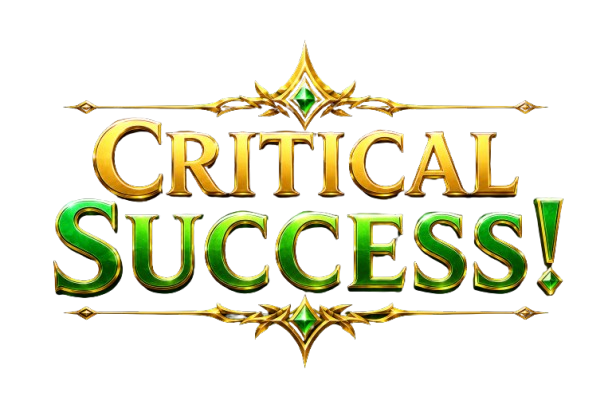
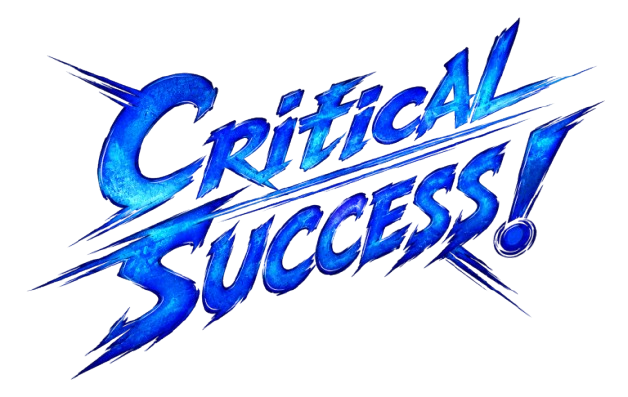
REparado!!

diff --git a/styles/module.css b/styles/module.css
@@ -2792,9 +2792,9 @@
   animation: vne-tc-portrait-in 0.55s cubic-bezier(0.22, 1.3, 0.36, 1) forwards;
 }
 .vne-tc-portrait {
-  max-height: 96vh;
-  max-width: 100%;
+  height: 100vh;
   width: auto;
+  max-width: none;
   object-fit: contain;
   object-position: bottom center;
   display: block;
@@ -2984,38 +2984,18 @@
   position: relative;
   z-index: 1;
   display: flex;
-  flex-direction: column;
   align-items: center;
-  gap: 4px;
+  justify-content: center;
   animation: vne-crit-slam 0.38s cubic-bezier(0.22, 1.8, 0.36, 1) forwards;
 }
-.vne-crit-icon {
-  font-size: 4em;
-  line-height: 1;
-  filter: drop-shadow(0 0 16px currentColor);
+.vne-crit-img {
+  max-height: 80vh;
+  max-width: 80vw;
+  width: auto;
+  height: auto;
+  object-fit: contain;
+  filter: drop-shadow(0 0 40px rgba(0,0,0,0.8));
 }
-.vne-crit-text {
-  font-size: clamp(3em, 6vw, 5.5em);
-  font-weight: 900;
-  letter-spacing: 0.08em;
-  text-transform: uppercase;
-  text-shadow: 0 0 30px currentColor, 3px 3px 6px rgba(0,0,0,0.9);
-  line-height: 1;
-}
-.vne-crit-sub {
-  font-size: 1.1em;
-  letter-spacing: 0.22em;
-  text-transform: uppercase;
-  font-weight: 600;
-  opacity: 0.7;
-}
-
-.vne-crit-crit   .vne-crit-icon,
-.vne-crit-crit   .vne-crit-text,
-.vne-crit-crit   .vne-crit-sub  { color: #ffd700; }
-.vne-crit-fumble .vne-crit-icon,
-.vne-crit-fumble .vne-crit-text,
-.vne-crit-fumble .vne-crit-sub  { color: #ff5050; }
 
 @keyframes vne-crit-appear    { from { opacity: 0; } to { opacity: 1; } }
 @keyframes vne-crit-disappear { from { opacity: 1; } to { opacity: 0; } }

diff --git a/scripts/main.js b/scripts/main.js
@@ -1123,16 +1123,15 @@ function _showCriticalAnimation(type, actorId = null) {
 
   document.getElementById("vne-crit-overlay")?.remove();
 
-  const isCrit   = type === "crit";
-  const overlay  = document.createElement("div");
+  const isCrit  = type === "crit";
+  const imgFile = isCrit ? "critsucc" : "critfail";
+  const overlay = document.createElement("div");
   overlay.id = "vne-crit-overlay";
   overlay.className = `vne-crit-overlay vne-crit-${type}`;
   overlay.innerHTML = `
     <div class="vne-crit-rays"></div>
     <div class="vne-crit-content">
-      <div class="vne-crit-icon">${isCrit ? "⚡" : "✗"}</div>
-      <div class="vne-crit-text">${isCrit ? "¡CRÍTICO!" : "¡PIFIA!"}</div>
-      <div class="vne-crit-sub">${isCrit ? "GOLPE CRÍTICO" : "FALLO CRÍTICO"}</div>
+      <img class="vne-crit-img" src="modules/vnd-enhanced/assets/imgs/${imgFile}.png" />
     </div>
   `;
   main.appendChild(overlay);
@@ -1142,8 +1141,8 @@ function _showCriticalAnimation(type, actorId = null) {
 
   setTimeout(() => {
     overlay.classList.add("vne-crit-fadeout");
-    setTimeout(() => overlay.remove(), 550);
-  }, 2200);
+    setTimeout(() => overlay.remove(), 500);
+  }, 1000);
 }
 
 // ── Chat Message Critical Parser ──────────────────────────────────────────────
@@ -1151,9 +1150,17 @@ function _showCriticalAnimation(type, actorId = null) {
 
 function _parseCritFromMessage(message) {
   // PF2e — uses structured outcome flags
-  const pf2eOutcome = message.flags?.pf2e?.context?.outcome;
-  if (pf2eOutcome === "criticalSuccess") return "crit";
-  if (pf2eOutcome === "criticalFailure") return "fumble";
+  const pf2eCtx     = message.flags?.pf2e?.context;
+  const pf2eOutcome = pf2eCtx?.outcome;
+  if (pf2eOutcome) {
+    // Skip flat checks — PF2e fires these automatically at turn start for
+    // persistent damage, recovery checks, etc. They are not dramatic moments.
+    const type = (pf2eCtx?.type ?? "").toLowerCase();
+    if (type.includes("flat")) return null;
+    if (pf2eOutcome === "criticalSuccess") return "crit";
+    if (pf2eOutcome === "criticalFailure") return "fumble";
+    return null;
+  }
 
   // D&D 5e — check dice terms for nat 20 / nat 1 on a d20 attack roll
   try {